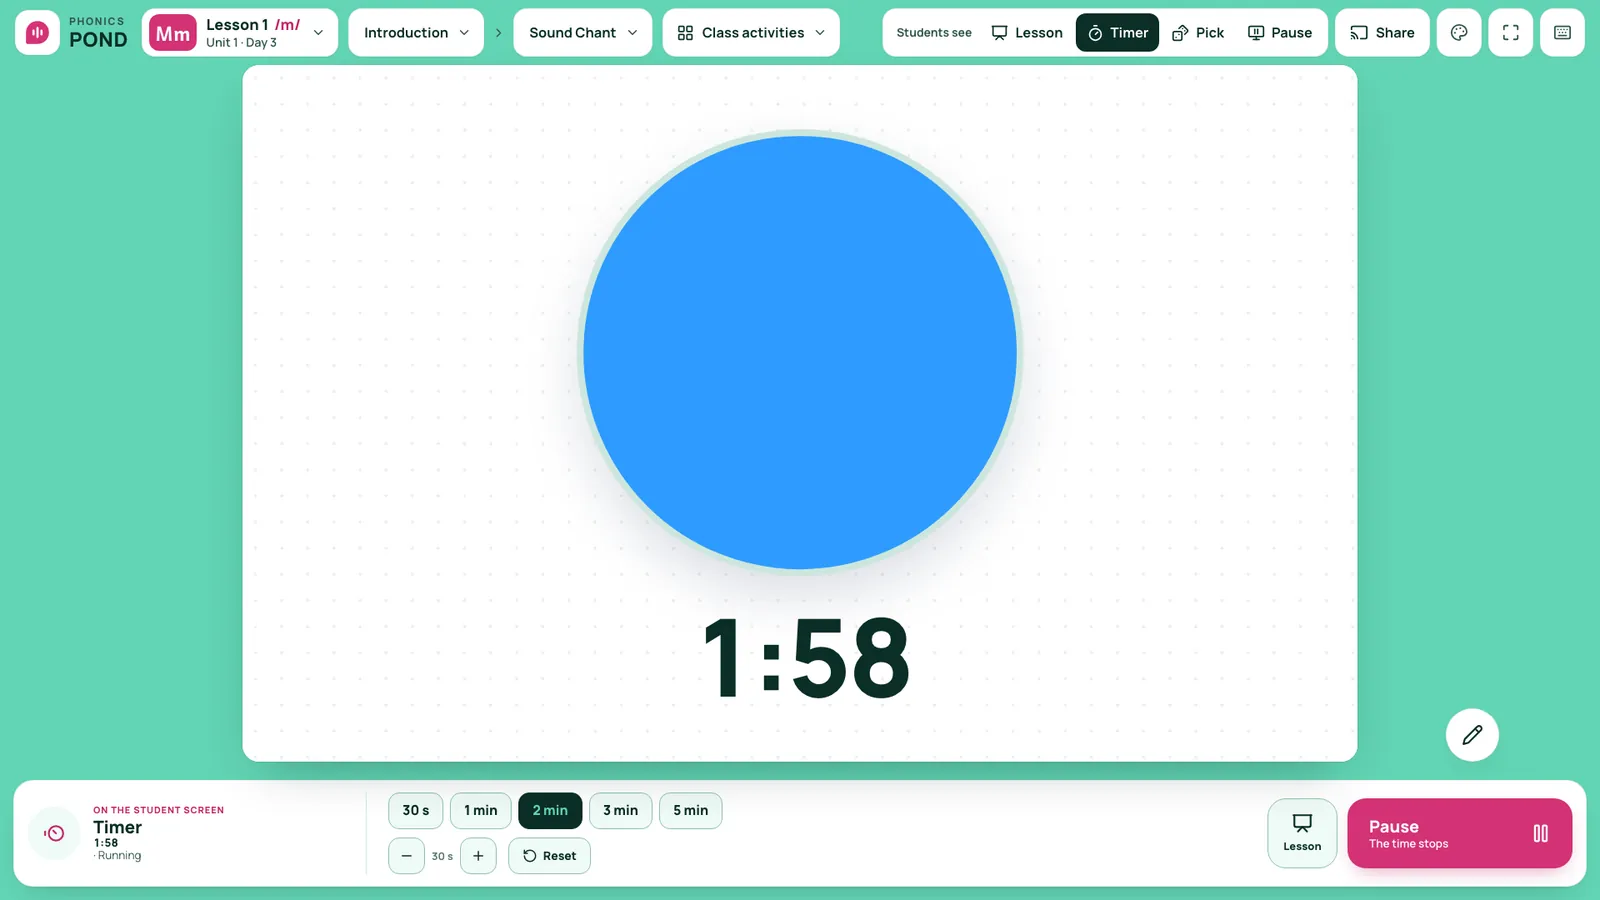
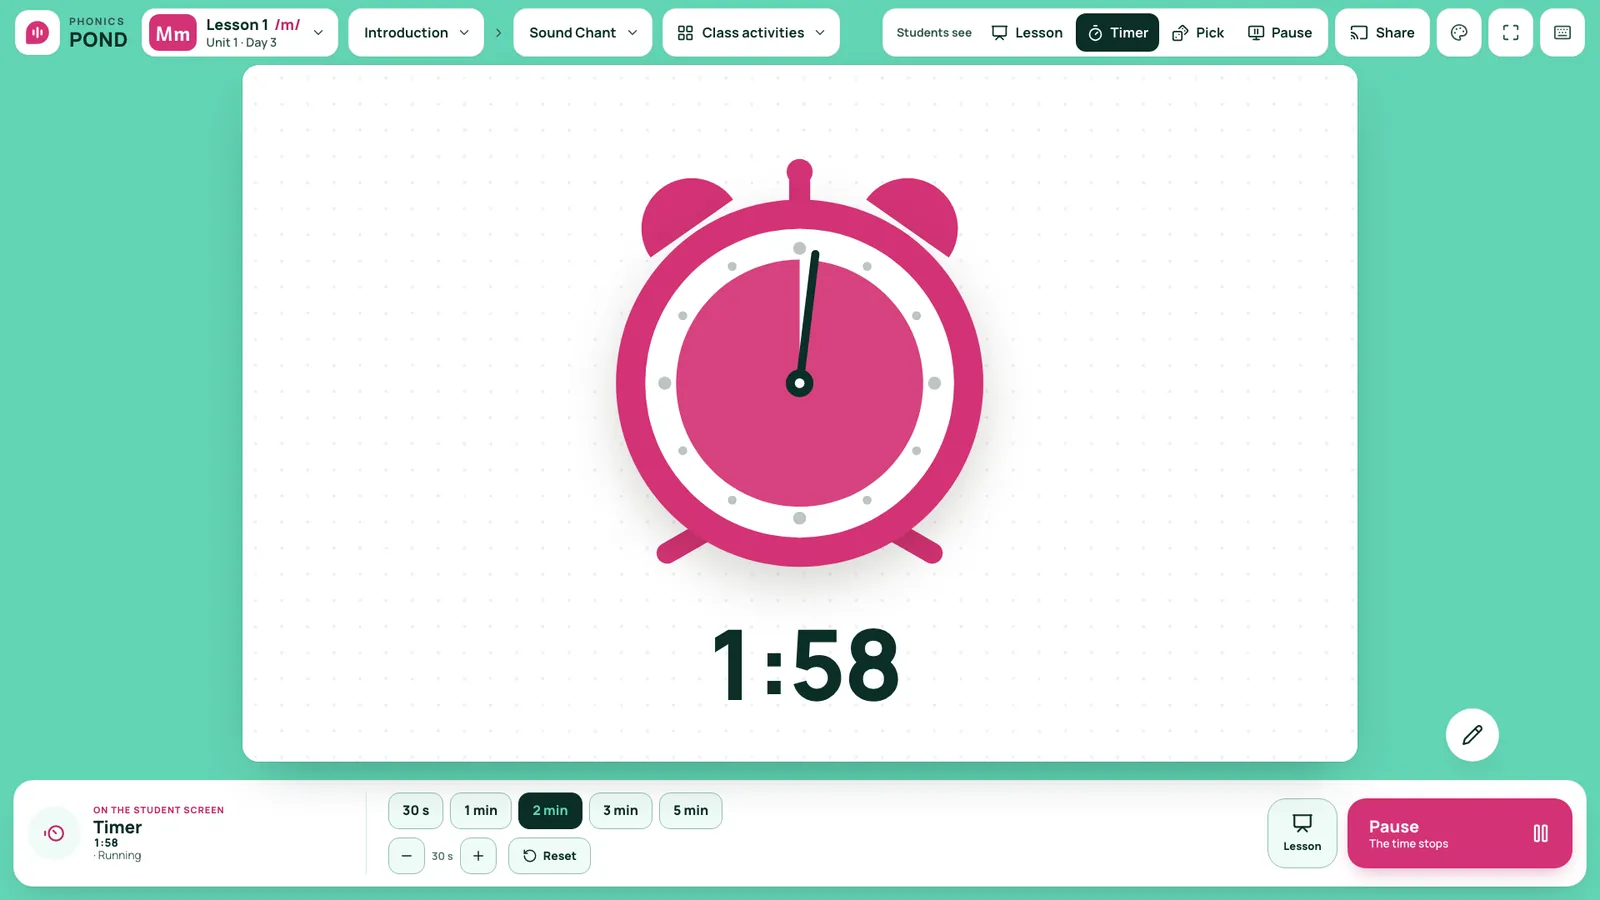
POND: alarm-clock timer, filled Pick circle (source d7ce4c7)

Changed region(s): [[0.3438, 0.1244, 0.6562, 0.6533], [0.4375, 0.6844, 0.5938, 0.7778]]

diff --git a/assets/css/concept-b.css b/assets/css/concept-b.css
@@ -80,7 +80,7 @@ button:disabled{cursor:default}
 /* ---------- the student-screen frame (16:10, 1280 × 800 design) ---------- */
 .b-stagewrap{position:relative;min-width:0;min-height:0;container-type:size}
 .b-stage{position:absolute;inset:0;margin:auto;width:min(100cqw,160cqh);height:min(100cqh,62.5cqw);border-radius:20px;overflow:hidden;box-shadow:0 0 0 1px rgba(255,255,255,.05),0 30px 80px -20px rgba(0,0,0,.6)}
-.b-stage.k-root{--k-font:var(--f);--k-slot-bg:#F6F3EC;--k-slot-dot:rgba(60,45,10,.085);--k-slot-line:#D6CDBC;--k-slot-ink:#1A1712;--k-slot-muted:#6B6457;--k-slot-accent:#C98E00;--k-slot-on-accent:#1A1712;--k-slot-accent-soft:#FFF0C2;--k-slot-badge:#FFFDF7;--k-slot-radius:18px;--k-slot-inset:18px}
+.b-stage.k-root{--k-font:var(--f);--k-slot-bg:#F6F3EC;--k-slot-dot:rgba(60,45,10,.085);--k-slot-line:#D6CDBC;--k-slot-ink:#1A1712;--k-slot-muted:#6B6457;--k-slot-accent:#C98E00;--k-tm:#F2A007;--k-slot-on-accent:#1A1712;--k-slot-accent-soft:#FFF0C2;--k-slot-badge:#FFFDF7;--k-slot-radius:18px;--k-slot-inset:18px}
 .b-fit,.b-over{position:absolute;left:0;top:0;width:1280px;height:800px;zoom:var(--k-scale,1)}
 .b-over{z-index:25;pointer-events:none}
 
@@ -146,28 +146,30 @@ button:disabled{cursor:default}
 .b-scene{position:absolute;inset:0;z-index:20}
 .b-scene[hidden]{display:none}
 .b-scene .b-fit{background:radial-gradient(circle,var(--k-slot-dot) 1.5px,transparent 2px) 0 0/30px 30px,var(--k-slot-bg);color:var(--k-slot-ink);font-family:var(--f)}
-/* Timer — one round pond that drains as time runs out; the water keeps moving so young kids see time passing */
-.b-tm{position:absolute;inset:0;display:grid;justify-items:center;align-content:center;gap:16px;--w1:#2E9BFF;--w2:#9BD0FF}
-.b-tm.is-low{--w1:#FF5A5F;--w2:#FFAEB0}
-.b-tpond{position:relative;width:540px;height:540px}
-.b-tpond svg{display:block;width:100%;height:100%;overflow:visible}
-.b-tpond .bowl{fill:var(--k-slot-badge);filter:drop-shadow(0 26px 34px rgba(20,40,80,.16))}
-.b-tpond .rim{fill:none;stroke:var(--k-slot-line);stroke-width:8}
-.b-tpond .w1{fill:var(--w1);animation:b-wave 2.6s linear infinite;transition:fill .4s}
-.b-tpond .w2{fill:var(--w2);animation:b-wave 4.2s linear infinite reverse;transition:fill .4s}
-.b-tm[data-st="ready"] .w1{animation-duration:5s}
-.b-tm[data-st="ready"] .w2{animation-duration:8s}
-.b-tm[data-st="paused"] .b-tpond path{animation-play-state:paused}
-.b-tbell{position:absolute;left:50%;top:50%;display:grid;place-items:center;width:240px;height:240px;margin:-120px 0 0 -120px;border-radius:50%;background:#2F9E66;color:#fff;box-shadow:0 24px 50px -18px rgba(20,90,50,.6);opacity:0;transform:scale(.6);transition:opacity .3s,transform .45s cubic-bezier(.2,1.5,.4,1)}
-.b-tbell .i{width:120px;height:120px;stroke-width:1.9;transform-origin:50% 8%}
-.b-tm.is-done .b-tbell{opacity:1;transform:none}
-.b-tm.is-done .b-tbell .i{animation:b-ring 1.1s ease-in-out 3}
-.b-tnum{display:block;font-size:124px;font-weight:800;line-height:1;letter-spacing:-.045em;font-variant-numeric:tabular-nums;color:var(--k-slot-ink);white-space:nowrap}
+/* Timer — a simple alarm clock for young kids: the coloured slice is the time left and shrinks as the hand moves; it rings when time is up */
+.b-tm{position:absolute;inset:0;display:grid;justify-items:center;align-content:center;gap:14px;--tm:var(--k-tm,var(--k-slot-accent))}
+.b-tm.is-low{--tpie:#F04A4A}
+.b-tclock{width:560px;height:560px}
+.b-tclock svg{display:block;width:100%;height:100%;overflow:visible;transform-origin:50% 88%}
+.b-tclock .body,.b-tclock .bells path,.b-tclock .cap{fill:var(--tm)}
+.b-tclock .legs path,.b-tclock .stem{fill:none;stroke:var(--tm);stroke-width:26;stroke-linecap:round}
+.b-tclock .body{filter:drop-shadow(0 22px 30px rgba(30,20,0,.18))}
+.b-tclock .face{fill:var(--k-slot-badge)}
+.b-tclock .dots circle{fill:var(--k-slot-ink);opacity:.28}
+.b-tclock .pie{fill:var(--tpie,var(--tm));opacity:.92;transition:fill .3s}
+.b-tclock .hand{stroke:var(--k-slot-ink);stroke-width:10;stroke-linecap:round}
+.b-tclock .hub{fill:var(--k-slot-ink)}
+.b-tclock .hub-dot{fill:var(--k-slot-badge)}
+.b-tclock .rings path{fill:none;stroke:var(--tm);stroke-width:10;stroke-linecap:round;opacity:0}
+.b-tm.is-done .b-tclock svg{animation:b-shake .42s ease-in-out 5}
+.b-tm.is-done .b-tclock .rings path{animation:b-ringline .84s ease-out 3}
+.b-tm.is-done .b-tclock .hand{opacity:.35}
+.b-tnum{display:block;font-size:112px;font-weight:800;line-height:1;letter-spacing:-.045em;font-variant-numeric:tabular-nums;color:var(--k-slot-ink);white-space:nowrap}
 .b-tm.is-low .b-tnum{color:#D93036;animation:b-throb 1s ease-in-out infinite}
 .b-tm[data-st="paused"] .b-tnum{color:var(--k-slot-muted)}
-.b-tm.is-done .b-tnum{font-size:96px;letter-spacing:-.03em;color:#23804F}
-@keyframes b-wave{to{transform:translateX(-280px)}}
-@keyframes b-ring{0%,100%{transform:rotate(0)}15%{transform:rotate(16deg)}30%{transform:rotate(-14deg)}45%{transform:rotate(10deg)}60%{transform:rotate(-7deg)}75%{transform:rotate(3deg)}}
+.b-tm.is-done .b-tnum{font-size:92px;letter-spacing:-.03em;color:#23804F}
+@keyframes b-shake{0%,100%{transform:rotate(0)}20%{transform:rotate(-7deg)}40%{transform:rotate(6deg)}60%{transform:rotate(-5deg)}80%{transform:rotate(4deg)}}
+@keyframes b-ringline{0%{opacity:0}30%{opacity:1}100%{opacity:0}}
 /* Pick a student — one card: "Who's next?", the names roll in the same spot, then the reveal */
 .b-pick{position:absolute;inset:0;display:grid;place-items:center;background:radial-gradient(circle at 50% 42%,var(--k-slot-accent-soft) 0,transparent 60%)}
 .b-pkcard{display:grid;justify-items:center;gap:28px;max-width:1180px}
@@ -178,7 +180,8 @@ button:disabled{cursor:default}
 .b-pkcap{display:inline-flex;align-items:center;gap:12px;height:66px;padding:0 32px 0 26px;border-radius:999px;background:var(--k-slot-ink);color:var(--k-slot-badge);font-size:30px;font-weight:800}
 .b-pkcap .i{width:30px;height:30px;stroke-width:2}
 .b-pkcap.is-quiet{background:transparent;color:var(--k-slot-muted)}
-.b-pkcard.is-wait .b-pkav{background:var(--k-slot-badge);color:var(--k-slot-ink);box-shadow:inset 0 0 0 5px var(--k-slot-line),0 30px 60px -30px rgba(0,0,0,.3)}
+.b-pkcard.is-wait .b-pkav{background:var(--k-tm,var(--k-slot-accent));color:#fff}   /* filled circle + white icon, same colour as the timer clock */
+.b-pkcard.is-wait .b-pkav .i{stroke-width:1.9}
 .b-pkcard.is-wait b{font:800 80px/1 var(--f);letter-spacing:-.025em}
 .b-pkcard.is-spin .b-pkav{animation:b-tick .18s ease-out}
 .b-pkcard.is-pick{animation:b-pop .55s cubic-bezier(.2,1.5,.4,1) both}
@@ -187,7 +190,7 @@ button:disabled{cursor:default}
 .b-pkburst i:nth-child(even){width:14px;height:14px;left:-7px;top:-7px;border-radius:4px}
 @keyframes b-burst{from{transform:rotate(var(--a)) translateY(0) scale(.2);opacity:0}}
 @keyframes b-tick{from{transform:scale(.93)}}
-@media (prefers-reduced-motion:reduce){.b-pkcard,.b-pkav,.b-pkburst i,.b-tpond path,.b-tm.is-done .b-tbell .i,.b-tm.is-low .b-tnum{animation:none}}
+@media (prefers-reduced-motion:reduce){.b-pkcard,.b-pkav,.b-pkburst i,.b-tm.is-done .b-tclock svg,.b-tm.is-done .b-tclock .rings path,.b-tm.is-low .b-tnum{animation:none}.b-tm.is-done .b-tclock .rings path{opacity:1}}
 @keyframes b-throb{50%{transform:scale(1.04)}}
 @keyframes b-pop{from{transform:scale(.82);opacity:0}}
 .b-spause{position:absolute;inset:0;display:grid;place-content:center;justify-items:center;gap:26px;background:#0B0C0F;animation:b-fade .25s both}
@@ -687,20 +690,20 @@ kbd{display:inline-grid;place-items:center;min-width:28px;height:26px;padding:0 
 :root[data-tone="bright"] .b-secs em.is-ready,:root[data-tone="bright"] .b-secitem em.is-ready{background:#E1F5EC;color:#0B7A50}
 :root[data-tone="bright"] .b-thumb{box-shadow:inset 0 0 0 1px rgba(0,0,0,.08)}
 :root[data-theme="mint"] .b-stage{box-shadow:0 0 0 1px rgba(11,46,39,.08),0 26px 60px -30px rgba(11,46,39,.45)}
-:root[data-theme="mint"] .b-stage.k-root{--k-slot-bg:#FFFFFF;--k-slot-dot:rgba(11,46,39,.08);--k-slot-line:#CDE6DD;--k-slot-ink:#0B2E27;--k-slot-muted:#55766E;--k-slot-accent:#C2266A;--k-slot-on-accent:#FFFFFF;--k-slot-accent-soft:#FFE4EF;--k-slot-badge:#FFFFFF}
+:root[data-theme="mint"] .b-stage.k-root{--k-slot-bg:#FFFFFF;--k-slot-dot:rgba(11,46,39,.08);--k-slot-line:#CDE6DD;--k-slot-ink:#0B2E27;--k-slot-muted:#55766E;--k-slot-accent:#C2266A;--k-tm:#D33275;--k-slot-on-accent:#FFFFFF;--k-slot-accent-soft:#FFE4EF;--k-slot-badge:#FFFFFF}
 :root[data-theme="mint"] .b-map{background:rgba(98,212,180,.975)}
 :root[data-theme="mint"] .b-next{box-shadow:0 10px 26px -12px rgba(176,32,96,.55)}
 :root[data-theme="mint"] .b-ltile.is-cur:hover{background:#BF2A67;border-color:#BF2A67}
 :root[data-theme="mint"] .b-ltile.is-cur .b-ltinfo small{color:#FFFFFF}
 :root[data-theme="yellow"] .b-stage{box-shadow:0 0 0 1px rgba(29,26,15,.08),0 26px 60px -30px rgba(120,90,0,.45)}
-:root[data-theme="yellow"] .b-stage.k-root{--k-slot-bg:#FFFFFF;--k-slot-dot:rgba(29,26,15,.08);--k-slot-line:#EADFB8;--k-slot-ink:#1D1A0F;--k-slot-muted:#6E6650;--k-slot-accent:#1D1A0F;--k-slot-on-accent:#FFFFFF;--k-slot-accent-soft:#FFF4BF;--k-slot-badge:#FFFFFF}
+:root[data-theme="yellow"] .b-stage.k-root{--k-slot-bg:#FFFFFF;--k-slot-dot:rgba(29,26,15,.08);--k-slot-line:#EADFB8;--k-slot-ink:#1D1A0F;--k-slot-muted:#6E6650;--k-slot-accent:#1D1A0F;--k-tm:#E8A600;--k-slot-on-accent:#FFFFFF;--k-slot-accent-soft:#FFF4BF;--k-slot-badge:#FFFFFF}
 :root[data-theme="yellow"] .b-map{background:rgba(255,225,90,.975)}
 :root[data-theme="yellow"] .b-next{box-shadow:0 10px 26px -12px rgba(29,26,15,.6)}
 :root[data-theme="yellow"] .b-ltile.is-cur:hover{background:#2C281A;border-color:#2C281A}
 :root[data-theme="yellow"] .b-ltile.is-cur .b-ltinfo small{color:rgba(255,225,90,.78)}
 :root[data-theme="yellow"] .b-gbtn--go{background:#FFE15A;color:#1D1A0F}
 :root[data-theme="white"] .b-stage{box-shadow:0 0 0 1px rgba(17,24,39,.10),0 26px 60px -30px rgba(17,24,39,.32)}
-:root[data-theme="white"] .b-stage.k-root{--k-slot-bg:#FFFFFF;--k-slot-dot:rgba(17,24,39,.07);--k-slot-line:#E3E7ED;--k-slot-ink:#111827;--k-slot-muted:#6B7380;--k-slot-accent:#0057D9;--k-slot-on-accent:#FFFFFF;--k-slot-accent-soft:#E6F0FF;--k-slot-badge:#FFFFFF}
+:root[data-theme="white"] .b-stage.k-root{--k-slot-bg:#FFFFFF;--k-slot-dot:rgba(17,24,39,.07);--k-slot-line:#E3E7ED;--k-slot-ink:#111827;--k-slot-muted:#6B7380;--k-slot-accent:#0057D9;--k-tm:#0066FF;--k-slot-on-accent:#FFFFFF;--k-slot-accent-soft:#E6F0FF;--k-slot-badge:#FFFFFF}
 /* white on white: panels keep a visible hairline */
 :root[data-theme="white"] .b-logo,:root[data-theme="white"] .b-lesson,:root[data-theme="white"] .b-acts:not(.is-on),:root[data-theme="white"] .b-scenes,:root[data-theme="white"] .b-ubtn,:root[data-theme="white"] .b-crumb button,:root[data-theme="white"] .b-fabbtn:not(.is-ink):not(.is-open){border-color:var(--ctl-line)}
 :root[data-theme="white"] .b-dockrow,:root[data-theme="white"] .b-npanel,:root[data-theme="white"] .b-pop,:root[data-theme="white"] .b-sheet,:root[data-theme="white"] .b-fabpal{border-color:#D8DDE4}
@@ -709,14 +712,14 @@ kbd{display:inline-grid;place-items:center;min-width:28px;height:26px;padding:0 
 :root[data-theme="white"] .b-ltile.is-cur:hover{background:#0057E0;border-color:#0057E0}
 :root[data-theme="white"] .b-ltile.is-cur .b-ltinfo small{color:#FFFFFF}
 :root[data-theme="blue"] .b-stage{box-shadow:0 0 0 1px rgba(11,27,63,.08),0 26px 60px -30px rgba(11,27,63,.5)}
-:root[data-theme="blue"] .b-stage.k-root{--k-slot-bg:#FFFFFF;--k-slot-dot:rgba(11,27,63,.07);--k-slot-line:#D6E3FC;--k-slot-ink:#0B1B3F;--k-slot-muted:#5A6E98;--k-slot-accent:#1F5BD8;--k-slot-on-accent:#FFFFFF;--k-slot-accent-soft:#FFF3BF;--k-slot-badge:#FFFFFF}
+:root[data-theme="blue"] .b-stage.k-root{--k-slot-bg:#FFFFFF;--k-slot-dot:rgba(11,27,63,.07);--k-slot-line:#D6E3FC;--k-slot-ink:#0B1B3F;--k-slot-muted:#5A6E98;--k-slot-accent:#1F5BD8;--k-tm:#2F6FE8;--k-slot-on-accent:#FFFFFF;--k-slot-accent-soft:#FFF3BF;--k-slot-badge:#FFFFFF}
 :root[data-theme="blue"] .b-map{background:rgba(77,141,255,.975)}
 :root[data-theme="blue"] .b-next{box-shadow:0 10px 26px -12px rgba(11,27,63,.5)}
 :root[data-theme="blue"] .b-ltile.is-cur{border-color:var(--acc)}
 :root[data-theme="blue"] .b-ltile.is-cur:hover{background:#F5C518;border-color:#F5C518}
 :root[data-theme="blue"] .b-ltile.is-cur .b-ltinfo small{color:rgba(26,20,0,.68)}
 :root[data-theme="pink"] .b-stage{box-shadow:0 0 0 1px rgba(59,15,38,.08),0 26px 60px -30px rgba(120,20,70,.45)}
-:root[data-theme="pink"] .b-stage.k-root{--k-slot-bg:#FFFFFF;--k-slot-dot:rgba(59,15,38,.07);--k-slot-line:#F9D5E4;--k-slot-ink:#3B0F26;--k-slot-muted:#925C77;--k-slot-accent:#C2185B;--k-slot-on-accent:#FFFFFF;--k-slot-accent-soft:#FFE3EE;--k-slot-badge:#FFFFFF}
+:root[data-theme="pink"] .b-stage.k-root{--k-slot-bg:#FFFFFF;--k-slot-dot:rgba(59,15,38,.07);--k-slot-line:#F9D5E4;--k-slot-ink:#3B0F26;--k-slot-muted:#925C77;--k-slot-accent:#C2185B;--k-tm:#D12F6E;--k-slot-on-accent:#FFFFFF;--k-slot-accent-soft:#FFE3EE;--k-slot-badge:#FFFFFF}
 :root[data-theme="pink"] .b-map{background:rgba(255,141,187,.975)}
 :root[data-theme="pink"] .b-next{box-shadow:0 10px 26px -12px rgba(59,15,38,.6)}
 :root[data-theme="pink"] .b-ltile.is-cur:hover{background:#52162F;border-color:#52162F}

diff --git a/assets/js/concept-b.js b/assets/js/concept-b.js
@@ -81,11 +81,19 @@
     el.hidden = !show; el.dataset.scene = show ? scene : '';
     if (!show) { el.innerHTML = ''; tick(); return; }
     if (scene === 'timer') {
-      const wave = (x0, y, n, h) => { let d = `M${x0} ${y}q70 ${-h} 140 0`; for (let i = 1; i < n; i++) d += 't140 0'; return d + `V${y + 640}H${x0}Z`; };
+      // a simple alarm clock: bells, a white face with 12 dots, the coloured slice = time left, one hand
+      const dot = i => { const a = i * Math.PI / 6, big = i % 3 === 0; return `<circle cx="${(300 + 166 * Math.sin(a)).toFixed(1)}" cy="${(330 - 166 * Math.cos(a)).toFixed(1)}" r="${big ? 8 : 5.5}"/>`; };
       el.innerHTML = `<div class="b-fit"><div class="b-tm" id="tFull">
-        <div class="b-tpond"><svg viewBox="0 0 560 560" aria-hidden="true"><defs><clipPath id="tClip"><circle cx="280" cy="280" r="262"/></clipPath></defs>
-          <circle class="bowl" cx="280" cy="280" r="262"/><g clip-path="url(#tClip)"><g id="tWater"><path class="w2" d="${wave(-420, 0, 11, 15)}"/><path class="w1" d="${wave(-280, 8, 10, 13)}"/></g></g><circle class="rim" cx="280" cy="280" r="262"/></svg>
-          <span class="b-tbell" aria-hidden="true">${ic('bell')}</span></div>
+        <div class="b-tclock"><svg viewBox="0 0 600 600" aria-hidden="true">
+          <g class="rings"><path d="M92 156q-24-44 8-86"/><path d="M60 170q-34-62 10-118"/><path d="M508 156q24-44-8-86"/><path d="M540 170q34-62-10-118"/></g>
+          <g class="legs"><path d="M200 503 137 539"/><path d="M400 503 463 539"/></g>
+          <g class="bells"><path transform="translate(157 125) rotate(-35)" d="M-62 18A62 62 0 0 1 62 18Z"/><path transform="translate(443 125) rotate(35)" d="M-62 18A62 62 0 0 1 62 18Z"/></g>
+          <path class="stem" d="M300 106V82"/><circle class="cap" cx="300" cy="70" r="16"/>
+          <circle class="body" cx="300" cy="330" r="226"/><circle class="face" cx="300" cy="330" r="190"/>
+          <g class="dots">${Array.from({ length: 12 }, (_, i) => dot(i)).join('')}</g>
+          <path class="pie" id="tPie"/><line class="hand" id="tHand" x1="300" y1="330" x2="300" y2="170"/>
+          <circle class="hub" cx="300" cy="330" r="17"/><circle class="hub-dot" cx="300" cy="330" r="6"/>
+        </svg></div>
         <b class="b-tnum" id="tBig"></b>
       </div></div>`;
       dialLoop();
@@ -135,12 +143,14 @@
     }
     const dt = $('#dockTimer'); if (dt) dt.textContent = TM.done ? 'Time’s up!' : clock(left);
   }
-  function drawDial(left) {   // water level = time left (full pond → empty)
-    const w = $('#tWater'); if (!w) return;
-    const p = TM.dur ? Math.max(0, Math.min(1, left / TM.dur)) : 0;
-    w.setAttribute('transform', `translate(0 ${(-12 + (1 - p) * 572).toFixed(1)})`);
+  function drawDial(left) {   // the slice shrinks back to 12 o'clock and the hand rides its edge
+    const pie = $('#tPie'), hand = $('#tHand'); if (!pie) return;
+    const p = TM.dur ? Math.max(0, Math.min(1, left / TM.dur)) : 0, a = p * 2 * Math.PI, R = 152, cx = 300, cy = 330;
+    const x = (cx - R * Math.sin(a)).toFixed(2), y = (cy - R * Math.cos(a)).toFixed(2);
+    pie.setAttribute('d', p >= 0.9995 ? `M${cx} ${cy - R}a${R} ${R} 0 1 0 0.01 0Z` : p <= 0 ? '' : `M${cx} ${cy}L${x} ${y}A${R} ${R} 0 ${p > 0.5 ? 1 : 0} 1 ${cx} ${cy - R}Z`);
+    hand.setAttribute('x2', (cx - 160 * Math.sin(a)).toFixed(2)); hand.setAttribute('y2', (cy - 160 * Math.cos(a)).toFixed(2));
   }
-  function dialLoop() {   // the level sinks smoothly while the timer runs on screen
+  function dialLoop() {   // the slice and the hand move smoothly while the timer runs on screen
     if (!$('#tFull')) return;
     if (TM.run) drawDial(tLeft());
     requestAnimationFrame(dialLoop);

diff --git a/concept-b-stage.html b/concept-b-stage.html
@@ -13,8 +13,8 @@ r.dataset.theme=t;r.dataset.tone=t==='dark'?'dark':'bright';r.dataset.controls=c
 <link rel="preconnect" href="https://fonts.googleapis.com">
 <link rel="preconnect" href="https://fonts.gstatic.com" crossorigin>
 <link rel="stylesheet" href="https://fonts.googleapis.com/css2?family=Andika:wght@400;700&family=Manrope:wght@400;500;600;700;800&display=swap">
-<link rel="stylesheet" href="assets/css/fprk-shell.css?v=41c6f52">
-<link rel="stylesheet" href="assets/css/concept-b.css?v=41c6f52">
+<link rel="stylesheet" href="assets/css/fprk-shell.css?v=d7ce4c7">
+<link rel="stylesheet" href="assets/css/concept-b.css?v=d7ce4c7">
 </head>
 <body>
 <svg width="0" height="0" style="position:absolute" aria-hidden="true">
@@ -75,8 +75,8 @@ r.dataset.theme=t;r.dataset.tone=t==='dark'?'dark':'bright';r.dataset.controls=c
   </dl>
 </div>
 
-<script src="assets/js/fprk-data.js?v=41c6f52"></script>
-<script src="assets/js/fprk-core.js?v=41c6f52"></script>
-<script src="assets/js/concept-b.js?v=41c6f52"></script>
+<script src="assets/js/fprk-data.js?v=d7ce4c7"></script>
+<script src="assets/js/fprk-core.js?v=d7ce4c7"></script>
+<script src="assets/js/concept-b.js?v=d7ce4c7"></script>
 </body>
 </html>

diff --git a/concept-c-script.html b/concept-c-script.html
@@ -8,8 +8,8 @@
 <link rel="preconnect" href="https://fonts.gstatic.com" crossorigin>
 <link rel="stylesheet" href="https://cdn.jsdelivr.net/gh/orioncactus/pretendard@v1.3.9/dist/web/variable/pretendardvariable-dynamic-subset.min.css">
 <link rel="stylesheet" href="https://fonts.googleapis.com/css2?family=Andika:wght@400;700&display=swap">
-<link rel="stylesheet" href="assets/css/fprk-shell.css?v=41c6f52">
-<link rel="stylesheet" href="assets/css/concept-c.css?v=41c6f52">
+<link rel="stylesheet" href="assets/css/fprk-shell.css?v=d7ce4c7">
+<link rel="stylesheet" href="assets/css/concept-c.css?v=d7ce4c7">
 </head>
 <body>
 <div class="c-app" id="app">
@@ -53,8 +53,8 @@
   </dl>
 </div>
 
-<script src="assets/js/fprk-data.js?v=41c6f52"></script>
-<script src="assets/js/fprk-core.js?v=41c6f52"></script>
-<script src="assets/js/concept-c.js?v=41c6f52"></script>
+<script src="assets/js/fprk-data.js?v=d7ce4c7"></script>
+<script src="assets/js/fprk-core.js?v=d7ce4c7"></script>
+<script src="assets/js/concept-c.js?v=d7ce4c7"></script>
 </body>
 </html>

diff --git a/concept-a-guide.html b/concept-a-guide.html
@@ -7,8 +7,8 @@
 <link rel="preconnect" href="https://fonts.googleapis.com">
 <link rel="preconnect" href="https://fonts.gstatic.com" crossorigin>
 <link rel="stylesheet" href="https://fonts.googleapis.com/css2?family=Andika:wght@400;700&family=Figtree:wght@400;500;600;700;800&display=swap">
-<link rel="stylesheet" href="assets/css/fprk-shell.css?v=41c6f52">
-<link rel="stylesheet" href="assets/css/concept-a.css?v=41c6f52">
+<link rel="stylesheet" href="assets/css/fprk-shell.css?v=d7ce4c7">
+<link rel="stylesheet" href="assets/css/concept-a.css?v=d7ce4c7">
 </head>
 <body>
 <div class="a-app" id="app">
@@ -58,8 +58,8 @@
   </dl>
 </div>
 
-<script src="assets/js/fprk-data.js?v=41c6f52"></script>
-<script src="assets/js/fprk-core.js?v=41c6f52"></script>
-<script src="assets/js/concept-a.js?v=41c6f52"></script>
+<script src="assets/js/fprk-data.js?v=d7ce4c7"></script>
+<script src="assets/js/fprk-core.js?v=d7ce4c7"></script>
+<script src="assets/js/concept-a.js?v=d7ce4c7"></script>
 </body>
 </html>

diff --git a/README.md b/README.md
@@ -3,4 +3,4 @@
 https://jinilee-hue.github.io/FPRK-Class-Dashboard/
 
 Public copy of the class-dashboard frame concepts A · B · C. Textbook page scans are not included.
-Built from the private working repo with `_dev/publish.py` (source 41c6f52).
+Built from the private working repo with `_dev/publish.py` (source d7ce4c7).
